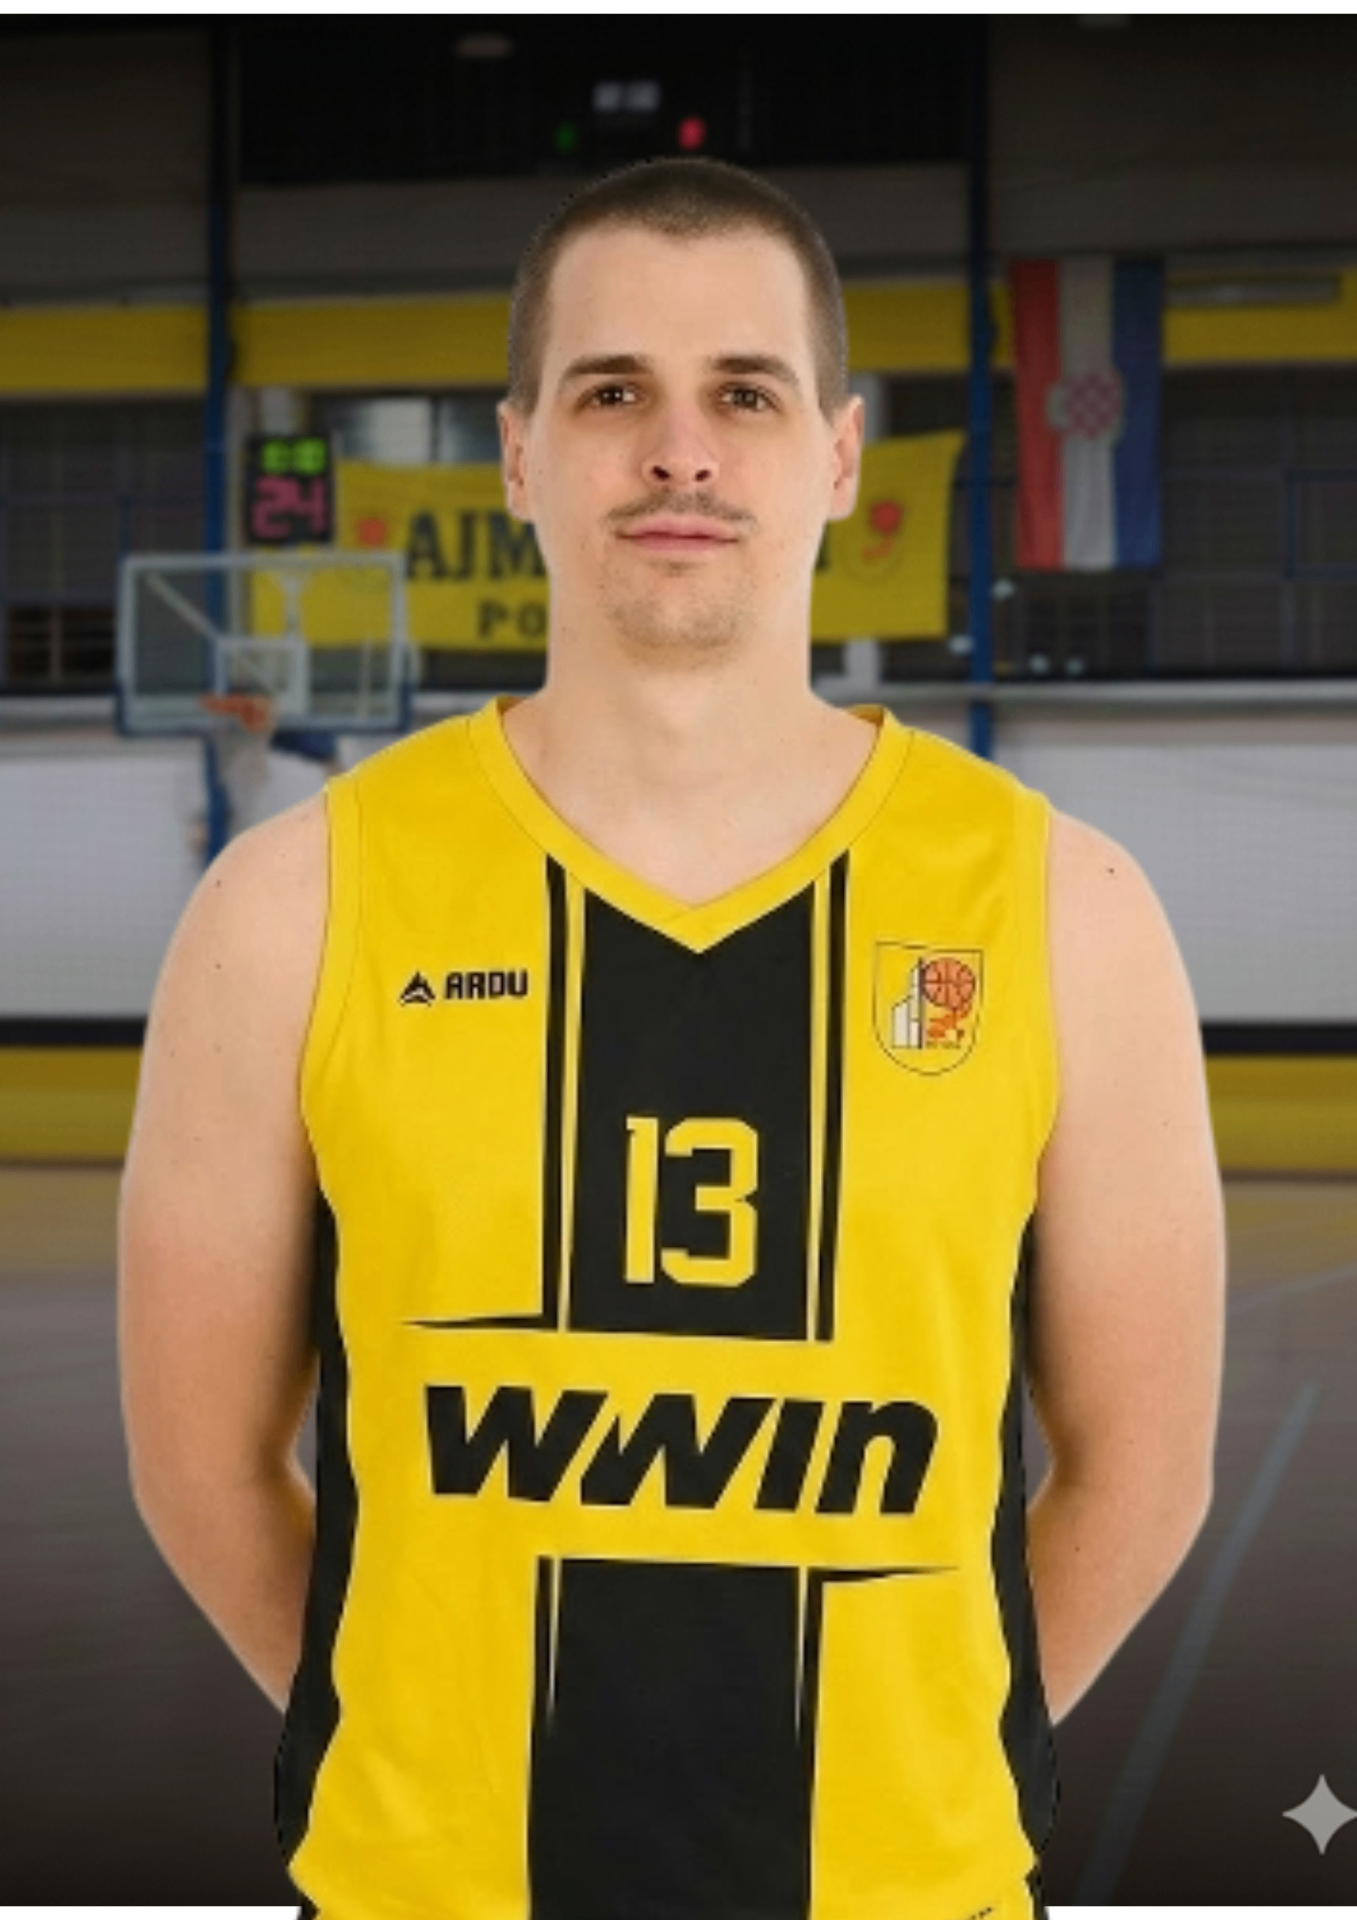
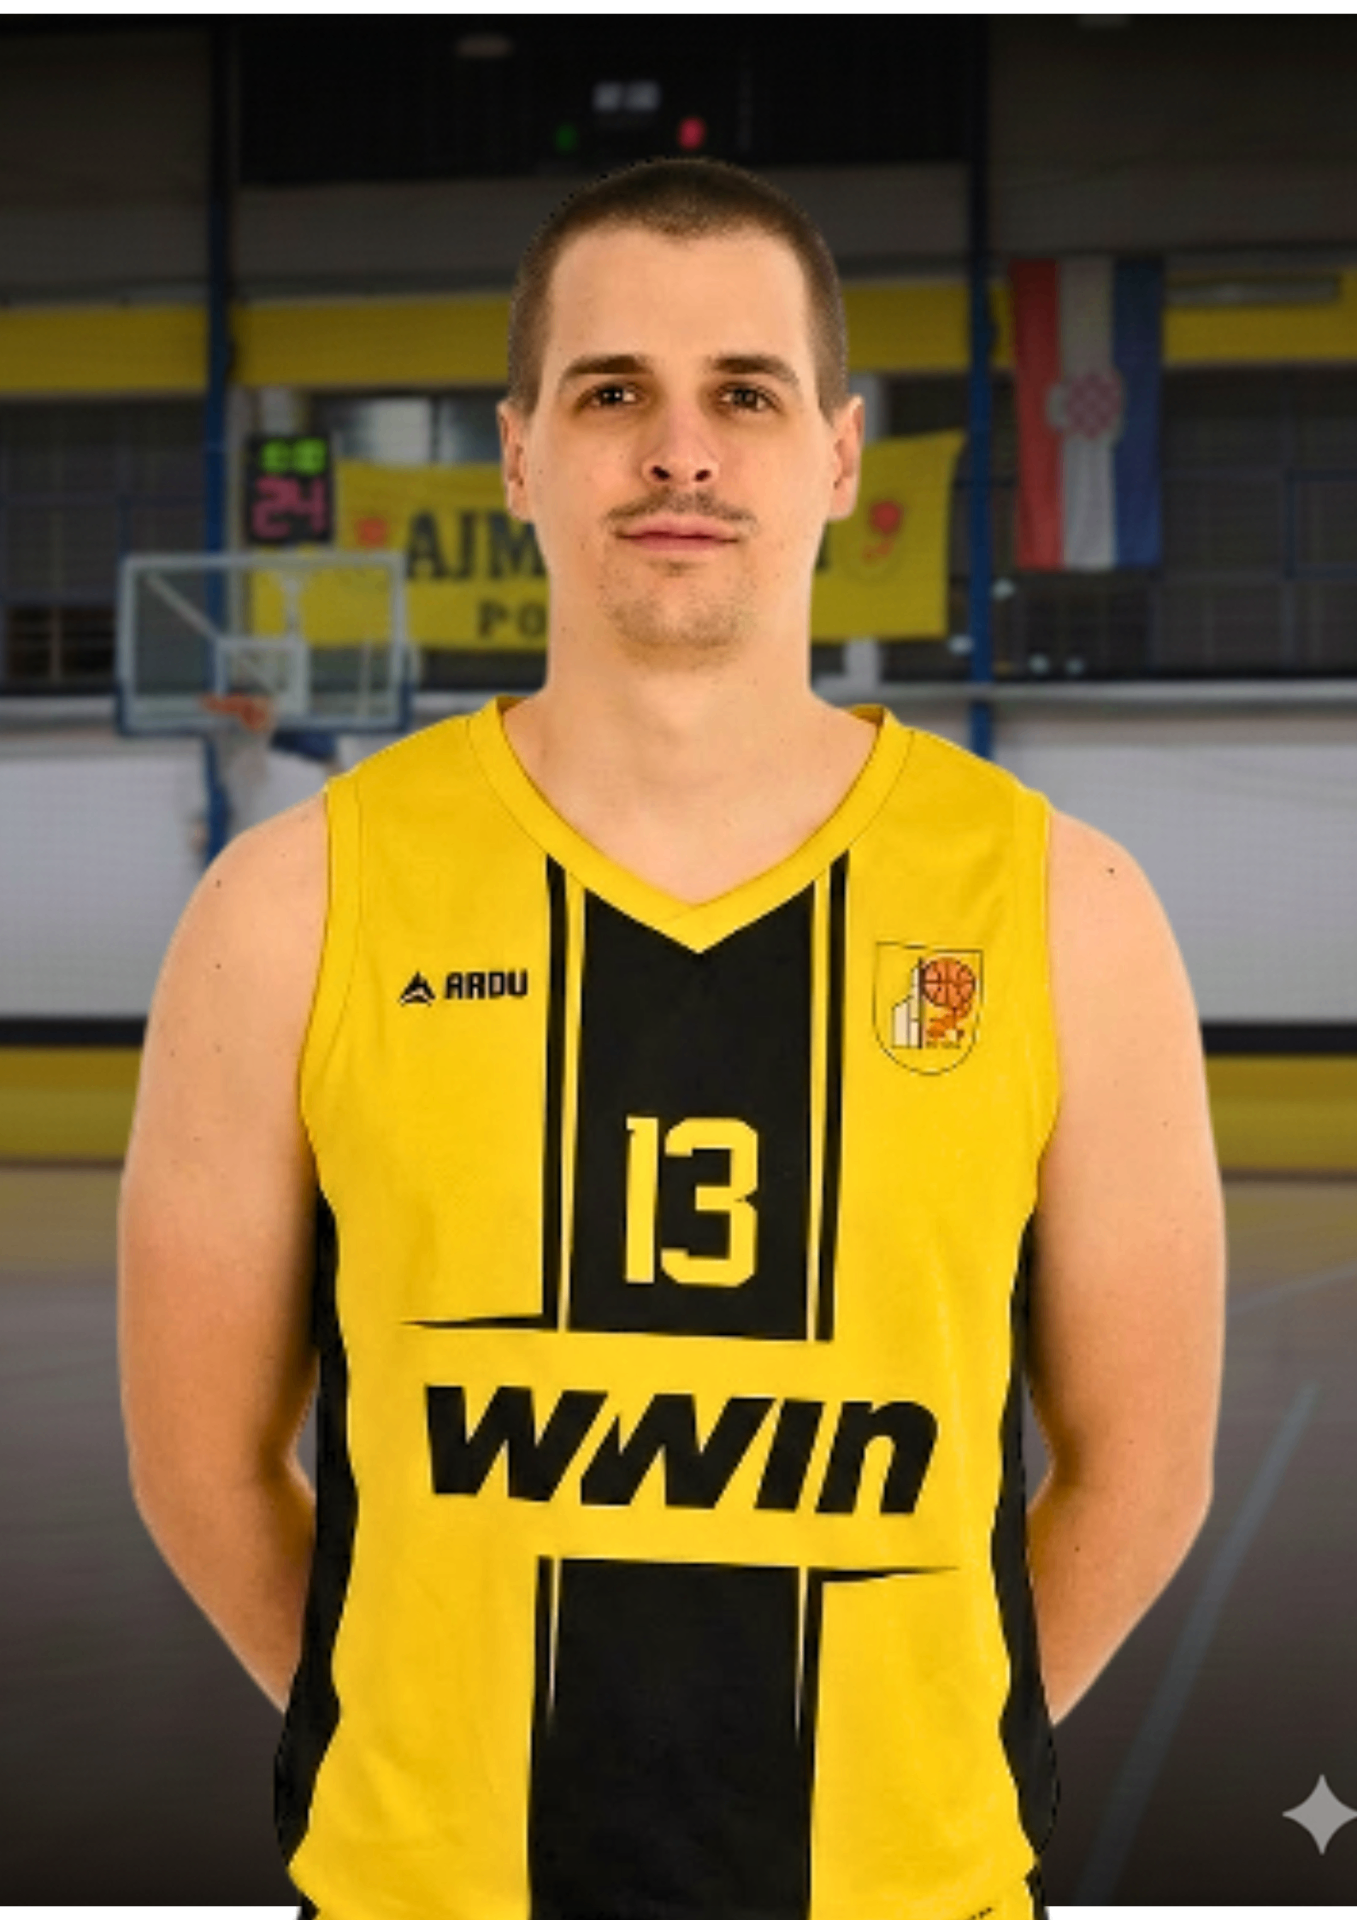
Changes

diff --git a/src/components/Team.tsx b/src/components/Team.tsx
@@ -249,7 +249,8 @@ const Team = () => {
                     src={player.image}
                     alt={player.name}
                     className={`w-full h-full object-cover transition-transform duration-500 group-hover:scale-110 ${
-                      player.image === playerDerek ? "object-[center_15%]" : "object-top"
+                      player.image === playerDerek ? "object-[center_15%]" : 
+                      player.image === playerBegic ? "object-[center_8%]" : "object-top"
                     } ${
                       player.image === playerRados ? "sepia-[0.15] saturate-[1.1] brightness-105" : 
                       player.image === playerRamljak ? "sepia-[0.15] saturate-[1.1] brightness-105" :
